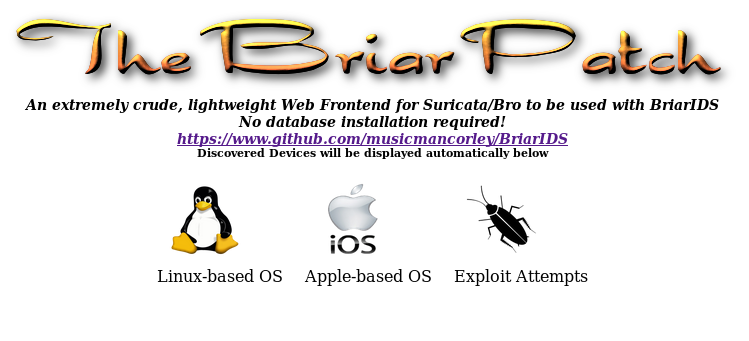
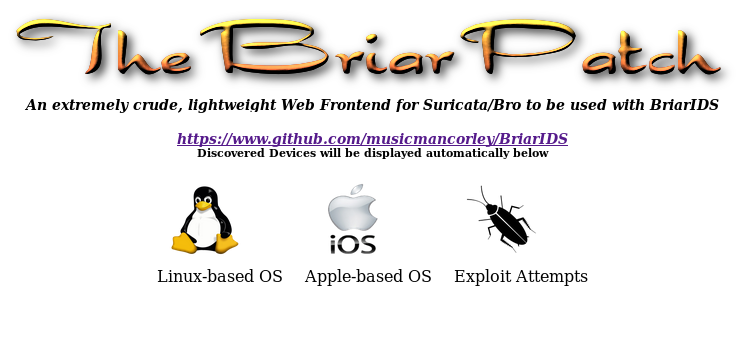
image updates...

Changed region(s): [[0.3071, 0.3226, 0.6756, 0.3812]]

diff --git a/TheBriarPatch.php b/TheBriarPatch.php
@@ -143,7 +143,7 @@ echo "<p align='left'><img src='images/greencheck.png' width=15 height=15><b>sur
 echo "<input type='button' onClick='surisubmit()' style='font-size:10px' title='clear exploit logs' value='clear old exploit logs' name='suricatalogs' id='suricatalogs'>";
 echo "<input type='button' onClick='brosubmit()' style='font-size:10px' title='clear bro logs' value='clear old bro logs' name='broslogs' id='broslogs'>";
 
-echo "<center><img src='images/briarpatch.png'><br><i style='font-size:14px'>An extremely crude, lightweight Web Frontend for Suricata/Bro to be used with BriarIDS<br>No database installation required!<br><a href='https://www.github.com/musicmancorley/BriarIDS'><b>https://www.github.com/musicmancorley/BriarIDS</a></b></i></center>";
+echo "<center><img src='images/briarpatch.png'><br><i style='font-size:14px'>An extremely crude, lightweight Web Frontend for Suricata/Bro to be used with BriarIDS<br><a href='https://www.github.com/musicmancorley/BriarIDS'><b>https://www.github.com/musicmancorley/BriarIDS</a></b></i></center>";
 
 echo "<input type='hidden' id='grabiphone' name='grabiphone'>";
 echo "<input type='hidden' id='lennythepenguin' name='lennythepenguin'>";
